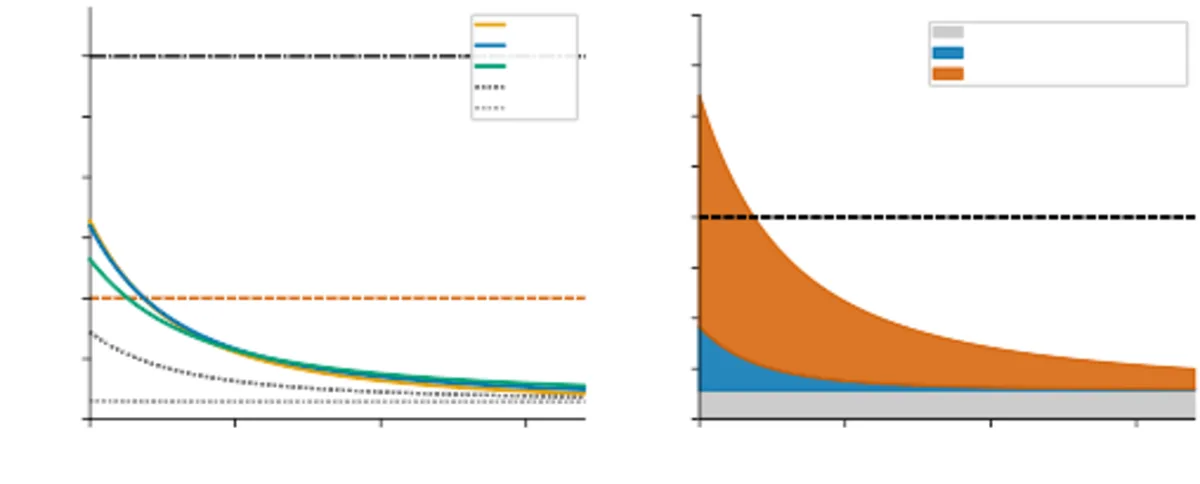
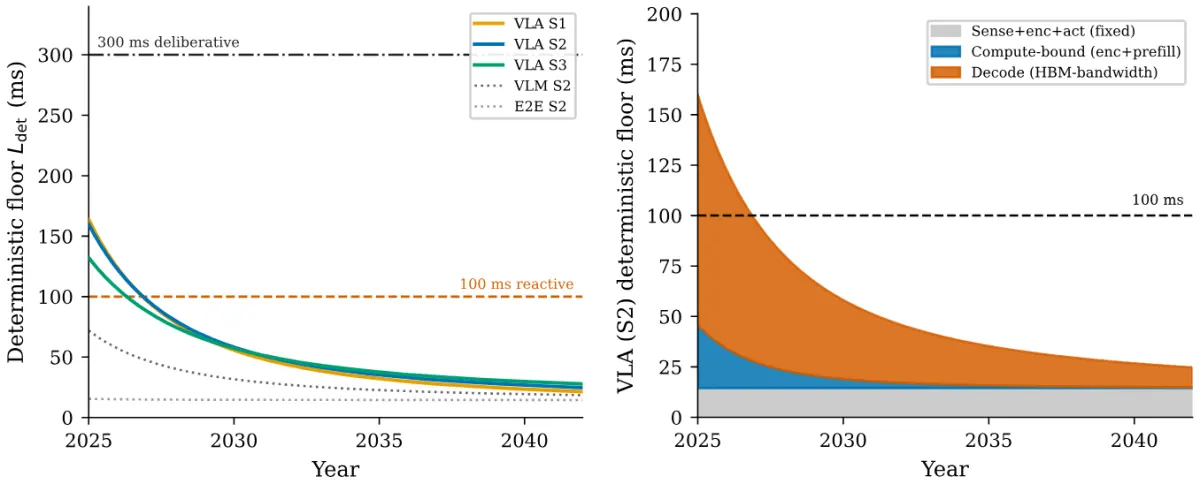
fix: restore Figure 8 labels

diff --git a/tests/site-content.test.js b/tests/site-content.test.js
@@ -210,6 +210,33 @@ test("Figure 1 preview preserves its light canvas background", () => {
   );
 });
 
+test("Figure 8 preview preserves readable axis labels", () => {
+  const preview = path.join(
+    root,
+    "images/cloud-drive/figure-08-preview.webp"
+  );
+  const cropArguments = [
+    preview,
+    "-crop",
+    "1x1+340+470",
+    "-depth",
+    "8",
+    "rgb:-",
+  ];
+  let result = spawnSync("magick", cropArguments);
+
+  if (result.error?.code === "ENOENT") {
+    result = spawnSync("convert", cropArguments);
+  }
+
+  assert.equal(result.error, undefined, "ImageMagick is required for image tests");
+  assert.equal(result.status, 0, result.stderr.toString());
+  assert.ok(
+    [...result.stdout.subarray(0, 3)].every((channel) => channel <= 80),
+    "Figure 8's x-axis label must remain visible in the optimized preview"
+  );
+});
+
 test("Cloud Drive article exposes semantic research and discovery metadata", () => {
   const html = read("cloud-drive/index.html");
   assert.match(
